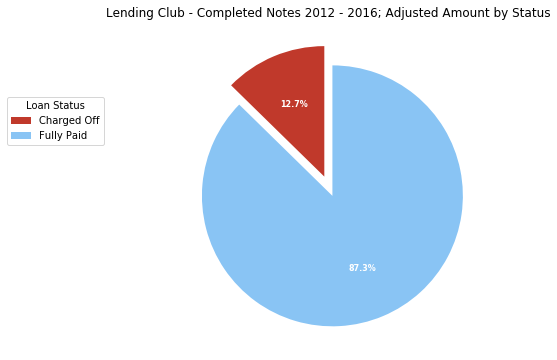
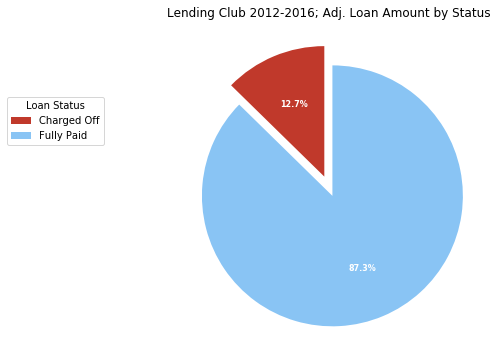
incremental checkin
increment check-in

diff --git a/_posts/2020-02-20-lending-club-part-one.md b/_posts/2020-02-20-lending-club-part-one.md
@@ -165,7 +165,7 @@ To control for these possible distortions, the next analysis uses loan amounts, 
 
 Only looking at _completed loans_ my portfolio looks much less rosy compared to the historical data, with my portfolio having over 15% more Charge Off's than the historical data:  23.5% vs 20.1%.  
 
-{% include gallery id="gallery_pie2" caption="Completed loans by amount" class="full" %}
+{% include gallery id="gallery_pie2" caption="Completed Loans" class="full" %}
 
 
 One more area of refinement; when a loan is charged off, the investor does not lose the full loan amount. The investor retains any received principals as well as any recoveries made during the loan default process. Adjusting the loan amounts for loans with a status of **Charge Off** as follows: 
@@ -184,103 +184,73 @@ then adjusted amount is calculated as:
 $$A_{adj} = a - p_{rcvd} - r$$  
 
 
+The completed loan analysis with adjust loan amounts, reveals my portfolio performed even worse; more than 35% of charge off proportion, 12.7% for historical data and 17.5% for my portfolio. 
+
+{% include gallery id="gallery_pie3" caption="All loans; adjusted amount by loan status" class="full" %}  
+
+
+### Distribution of losses  
+As noted above, automatic investing was unavailable to me for quite some time, it is possible I purchased a cluster of risky loans. To explore this question a bit further, we'll look at the loan-purchases distortion mixed in with loan status.   
+
+A recap of the broad timeframe of how loan purchasing was done.  
+
+| Time Window | Purchase Pattern |  
+|---| --- |
+|2012 - 2016 | Manual Purchases |  
+|2016 - 2019 | Automatic Purchases |  
+| Nov 2019 - Present | Manual Purchases |  
 
 
 
-Exploring the distribution of the charge offs
 
-Revisiting the loan purchase bar chart, to include status.
-
-
-
-
-From a cash-flow perspective, you only get monthly payments from the **issued** and **current** notes.  
-
-Building capital, starting 2015, I d 
-
-The first research question:  Is my nagging feeling justified ?
-
-The approach for this analysis will be from broad strokes and refine based on what is discovered.
-
+Exploring the distribution of the charge offs  Revisiting the loan purchase bar chart, to include status.
 
 
 {% include gallery id="gallery_hist2" caption="Loan count by order date and issue date, stacked bar by status" class="full" %}
 
 
-### Loan Vintage Mixture 
 
 
-~~When automated investing became available my volume of notes purchased increased dramatically.~~  
+## Recap
+The genesis for this analysis was a nagging feeling my portfolio performance was less than stellar. Given the nature of the financial product, loan defaults are always a risk. Looking at a simplistic analysis based on loan status, my portfolio appeared to stack-up well against the historical data. The percent of **Charge Off** loans for my portfolio was approximately 13% vs 18% for the historical data.  
+
+It wasn't until looking at the financial impact of those **Charge Off** loans that the relative underperformance of my portfolio became apparent.  Using the face value loan amounts, my portfolio trailed the Lending Club historical data by 3.4 points.  Using adjusted loan amounts, to account for principal received and other recoveries, actually extended this gap to 4.8 points.  
+
+Charge Off Comparisons:  
+
+| &#xfeff; | My Portfolio | LC Historical |   
+| --- | --- | --- |  
+|Loan Amounts | 23.5% | 20.1% |  
+|Adj. Amounts | 17.5 % | 12.7% |  
 
 
+Reviewing the primary research question:  Is my nagging feeling justified ?  It seems clear the answer is **YES**.  Based on the amount being lost as percentage of funds invested for completed loans, my portfolio did have higher losses than the historical data.  
 
 
-
-### Loan Status Mixture
-
-- [ ] Compare count of loans in each loan status:  my portfolio to a large sample of the Lending Club historical data  
+Based when loans were added to my portfolio and the status of those order vintages, nothing appears to be the obvious culprit as primary source of the **Charge Off** loans.  That is no single order vintage is obviously dominated by **Charge Off** loans.  
 
 
-
-
-
-
-
-
-
-
-
-
-
+The approach for this post, was to start the analysis with broad strokes and refine based on what is discovered.  My initial thought was my portfolio performance was being dragged by **Charge Off** loans, and the data suggests this is accurate.  With a general sense of the overall picture confirming the initial assumptions, a more detailed analysis is warranted. The additional analysis will be continued in second post. 
 
 
 
+## Part 2:
 
-{% include gallery id="gallery_pie3" caption="All loans; adjusted amount by loan status" class="full" %}
+Coming soon. I need to go back and do some additional number crunching, but here are some of the questions I am left with after completing the part 1 analysis. 
 
+Initial Questions for Part 2:  
 
+- Is all Lending Club loans from 2012-2016 an appropriate benchmark for comparison.  That is, a set of 1.3 million loans compared to a portfolio approximately 1,300 notes. Perhaps random sampling of notes from historical data pool to build a benchmark portfolio of similar size would be a better comparison.  
 
-[Here is summary]({% link _projects/lending-club-summary.md %}) of the data analysis project supporting this post.
+- For each order vintage, explore composition of loans based on grade.  
 
-***  
-## Scratch Pad below 
-
-- [ ] Compare value of loans if each loan status:  my portfolio vs Lending Club historical data 
-
-- [ ] Build a benchmark portfolio with same mixture by issue date vintage (and possibly grade...think about how much effort this would be ) 
-
-### Charge-Offs 
-
-- [ ] Compare total Charge percent of loans:  my portfolio vs LC Historical data  
-
-- [ ] Compare charge off value:  my portfolio vs LC Historical Data 
+- Create a measure for performance to see what impact changing purchasing patterns had on performance, with each order vintage.
 
 
 
+### Reference Information  
 
 
-
-This post is an exploration my own personal portfolio performance.
-
-
-My initial thought was my portfolio performance was being dragged by a large number charge-offs.
+If you want to learn more about analysis and tools used [here is summary]({% link _projects/lending-club-summary.md %}) of the data analysis project supporting this post.  Feel free to [get in touch](/contact/){: target="_blank"} if you have any questions or comments.  
 
 
-My portfolio is just a sampling of the total market, which for 2019 was over 4 million loans issued ([as published on the LC stats page](https://www.lendingclub.com/info/statistics.action){:target="_blank"}).
-
-
-My portfolio is roughly 1,300 loans.  There are a lot of ways to draw 1,300 loans from a pool of millions.
-
-
-
-Given the size of LendingClub
-
-
-- [ ] add pie or donut chart by status (of completed notes)
-- [ ] add graph of failures by (by quarter of completed notes)
-- [ ] add last payment by (by quarter)
-
-
-- [ ] add percentage of term at time of order to vintages  
-
-- [ ] add link to code

diff --git a/_projects/lending-club-summary.md b/_projects/lending-club-summary.md
@@ -49,7 +49,7 @@ A summary of the technical aspects of analyzing my Lending Club portfolio as wel
 - Save cleansed DataFrame  
 
 
-You can [browse the notebook](https://github.com/mcmasty/stunning-fortnight/blob/master/lending_club_analysis/My%20LC%20Portfolio%20Notes%20Analysis.ipynb){: target="_blank"}  I used to analyze my lending club portfolio on GitHub.
+_Look at the code:_  You can [browse the notebook](https://github.com/mcmasty/stunning-fortnight/blob/master/lending_club_analysis/My%20LC%20Portfolio%20Notes%20Analysis.ipynb){: target="_blank"}  I used to analyze my lending club portfolio on GitHub.
 
 
 **LC Historical Data**   
